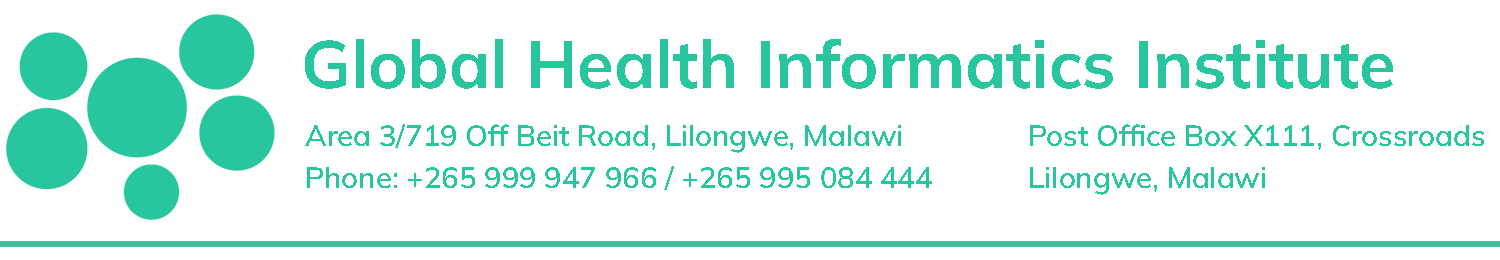
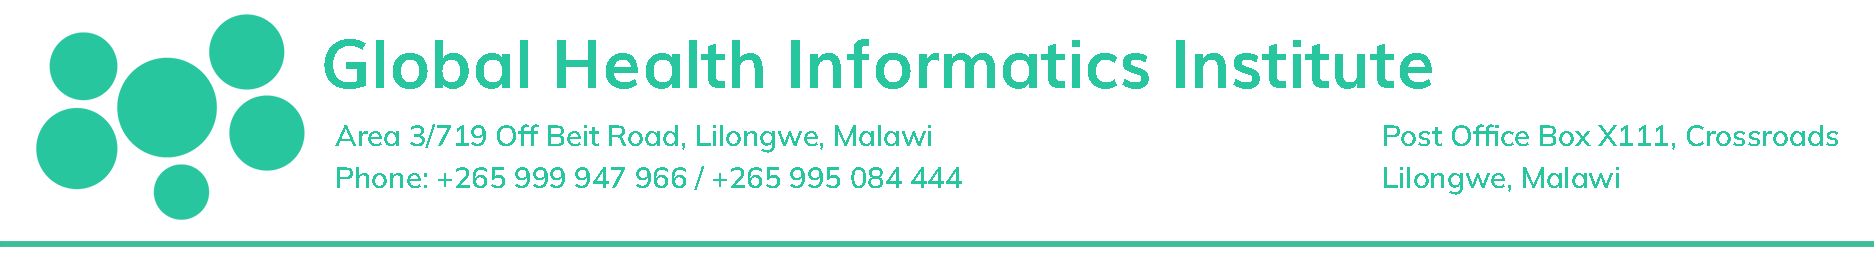
fix: update letterhead image  and dimensions in weekly PDF generation

Changed region(s): [[0.0, 0.0308, 0.9507, 0.8615], [0.6747, 0.4615, 1.0, 0.5846], [0.6747, 0.6462, 0.8587, 0.7385]]

diff --git a/app/helpers/timesheets_helper.rb b/app/helpers/timesheets_helper.rb
@@ -95,7 +95,7 @@ module TimesheetsHelper # rubocop:disable Style/Documentation
   def weekly_pdf(records, projects, timesheet) # rubocop:disable Metrics/AbcSize,Metrics/CyclomaticComplexity,Metrics/MethodLength
     Prawn::Document.generate('tmp/timesheet.pdf', page_size: 'A3', page_layout: :landscape, # rubocop:disable Metrics/BlockLength
                                                   left_margin: 40, right_margin: 30 ) do |pdf|
-      pdf.image 'app/assets/images/GHII-Letterhead.png', width: 1100, height: 120
+      pdf.image 'app/assets/images/GHII-Letterhead.png', width: pdf.bounds.width
       pdf.move_down 40
       table_data = []
       titles = %w[Project Task]
